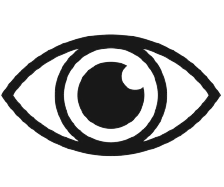
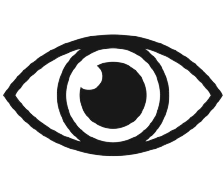
Add feature to see pass and hide it

diff --git a/log-in.html b/log-in.html
@@ -39,21 +39,36 @@
       </div>
       
       <br>
-      <form action="loginForm">
-        <input type="text" name="username" class= "login-input" id="username" placeholder="username"><br>
-        <input type="text" name="email" class= "login-input" id="email" placeholder="email">
+      <form action="loginForm" id = "loginForm">
+        <input type="text" name="username" class= "login-input" id="usernameLogin" placeholder="username"><br>
+        <input type="password" name="password" class= "login-input" id="passwordLogin" placeholder="password">
+        <img src="fotot/pass-hide.png" alt="can't see" id="hiddenEye" onclick="eyeHidden()">
+        <img src="fotot/pass-unhide.png" alt="can see" id="eyeShown" onclick="eyeOfSauron()">
+        <br>
+  
+        <input type="checkbox" name="remember-me?" >
+        <label for="remember-me?">Remember me</label><br>
+  
+        <button class="submit-btn" id = "login-btn">Log In</button>  
+      </form>
 
-        <input type="password" name="password" class= "login-input" id="password" placeholder="password">
+      <form action="registerForm" id = "registerForm">
+        <input type="text" name="username" class= "login-input" id="usernameRegister" placeholder="username"><br>
+        <input type="text" name="email" class= "login-input" id="email" placeholder="email">
+        <input type="password" name="password" class= "login-input" id="passwordRegister" placeholder="password">
+        <!-- <img src="fotot/pass-hide.png" alt="can't see" onclick="eyeHidden()">
+        <img src="fotot/pass-unhide.png" alt="can see" onclick="eyeOfSauron()"> -->
+        
         <br>
   
         <input type="checkbox" name="remember-me?" id="">
         <label for="remember-me?">Remember me</label><br>
   
-        <button id = "submit-btn">Log In</button>  
+        <button class="submit-btn" id = "register-btn">Register</button>  
       </form>
 
       </div>
-
+v
   </div>
   
 
@@ -61,24 +76,42 @@
 
 
   <script>
+    
+    let loginNow = true;
+
     function login(){
       let divsSelect = document.getElementsByClassName("selected");
       let divSelect = divsSelect[0];
       divSelect.style.marginLeft = '0px';
-      let submit = document.getElementById('submit-btn');
-      submit.innerHTML = "Log In";
-      document.getElementById('email').style.display = 'none';
+      document.getElementById('registerForm').style.display = 'none';
+      document.getElementById('loginForm').style.display = 'inline-block';
+      loginNow = true;
     }
 
     function register(){
       let divsSelect = document.getElementsByClassName("selected");
       let divSelect = divsSelect[0];
-      divSelect.style.marginLeft = '100px';
-      let submit = document.getElementById('submit-btn');
-      submit.innerHTML = "Register";
-      document.getElementById('email').style.display = 'inline-block';
+      divSelect.style.marginLeft = '100px';  
+      document.getElementById('registerForm').style.display = 'inline-block';
+      document.getElementById('loginForm').style.display = 'none';
+      loginNow = false;
     }
 
+    function eyeHidden(){
+      document.getElementById('passwordLogin').type = 'text';
+      let imgsHidden = document.getElementById('hiddenEye');
+      imgsHidden.style.visibility = 'hidden';
+      document.getElementById('eyeShown').style.visibility = 'visible';
+          
+    }
+    
+    function eyeOfSauron(){
+      document.getElementById('passwordLogin').type = 'password';
+      let imgsHidden = document.getElementById('hiddenEye');
+      imgsHidden.style.visibility = 'visible';
+      document.getElementById('eyeShown').style.visibility = 'hidden';
+      
+    }
   </script>
 
 </body>

diff --git a/style.css b/style.css
@@ -162,12 +162,29 @@ header {
     border-radius: 15px;
   }
 
-  #email {
+  #registerForm{
     display: none;
   }
 
+  #hiddenEye {
+    position: absolute;
+    width: 25px;
+    margin-top: 10px;
+    margin-left: 5px;
+    cursor: pointer;
+  }
 
-  #submit-btn {
+  #eyeShown{
+    position: absolute;
+    width: 25px;
+    margin-top: 8.5px;
+    margin-left: 5px;
+    cursor: pointer;
+    visibility: hidden;
+  }
+
+
+  .submit-btn {
     width: 200px;
     margin-top: 20px;
     padding: 15px;
@@ -176,3 +193,5 @@ header {
     border: none;
     cursor: pointer;
   }
+
+  
